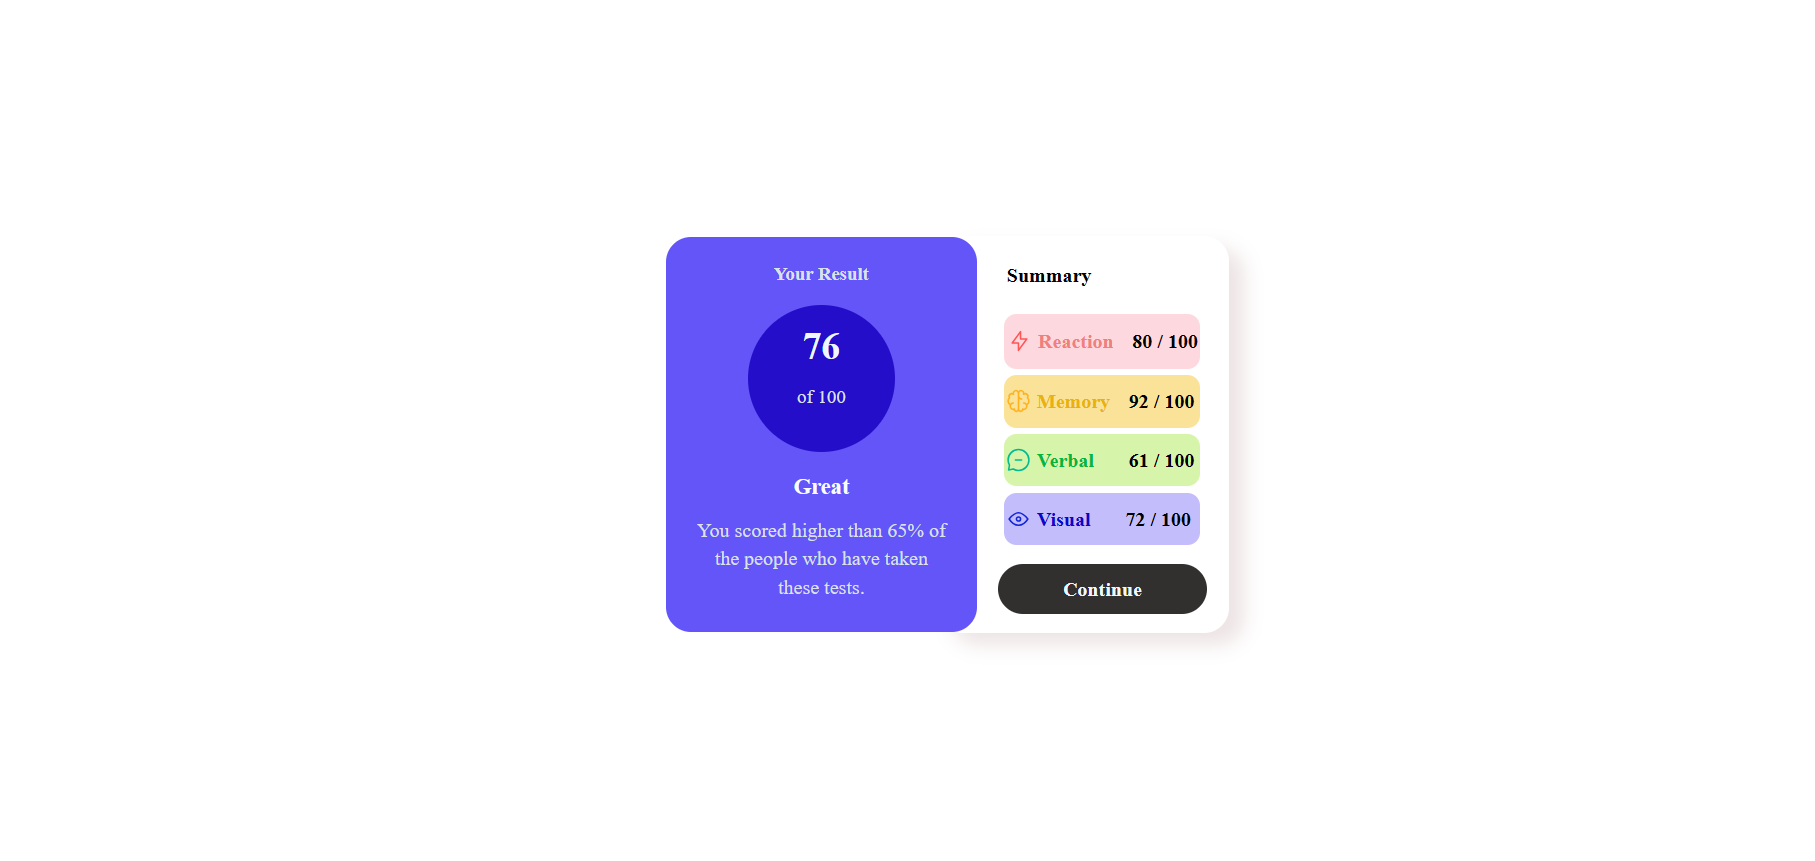
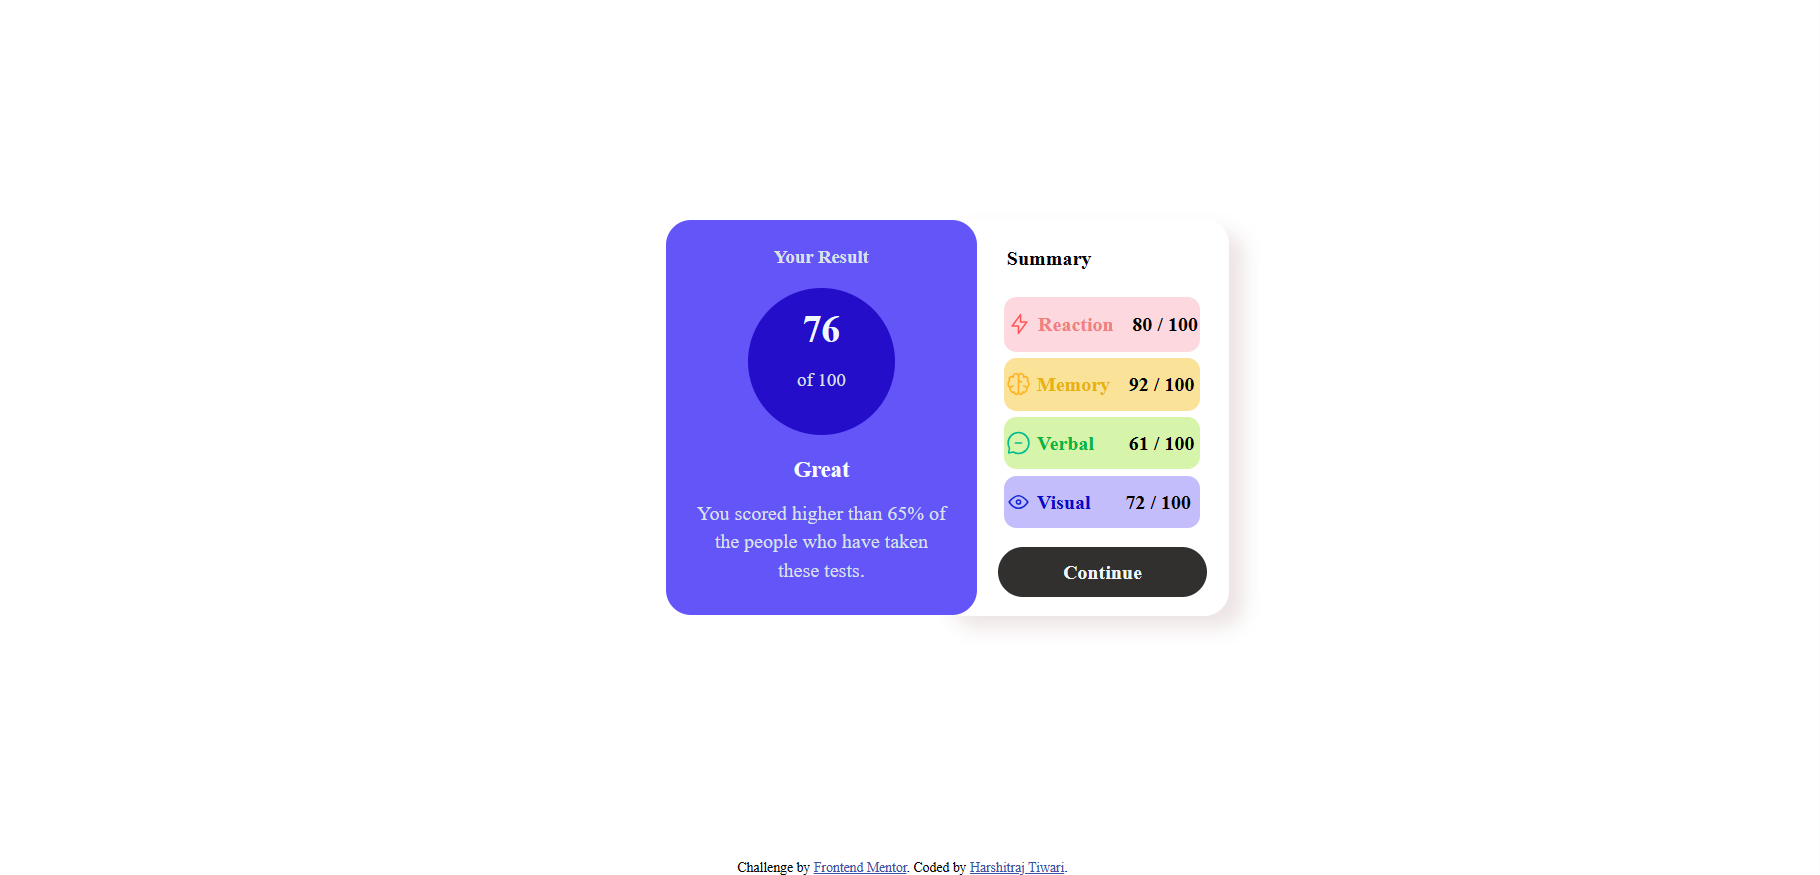
Add files via upload

Changed region(s): [[0.3394, 0.2416, 0.6788, 0.7549], [0.4011, 0.9663, 0.5862, 1.0]]

diff --git a/index.html b/index.html
@@ -23,6 +23,7 @@
       justify-content: center;
       align-items: center;
       height: 100vh;
+     
     }
 
     .main1 {
@@ -252,7 +253,7 @@
   </div>
   <div class="attribution">
     Challenge by <a href="https://www.frontendmentor.io?ref=challenge" target="_blank">Frontend Mentor</a>.
-    Coded by <a href="#">Your Name Here</a>.
+    Coded by <a href="#">Harshitraj Tiwari</a>.
   </div>
 </body>
 
